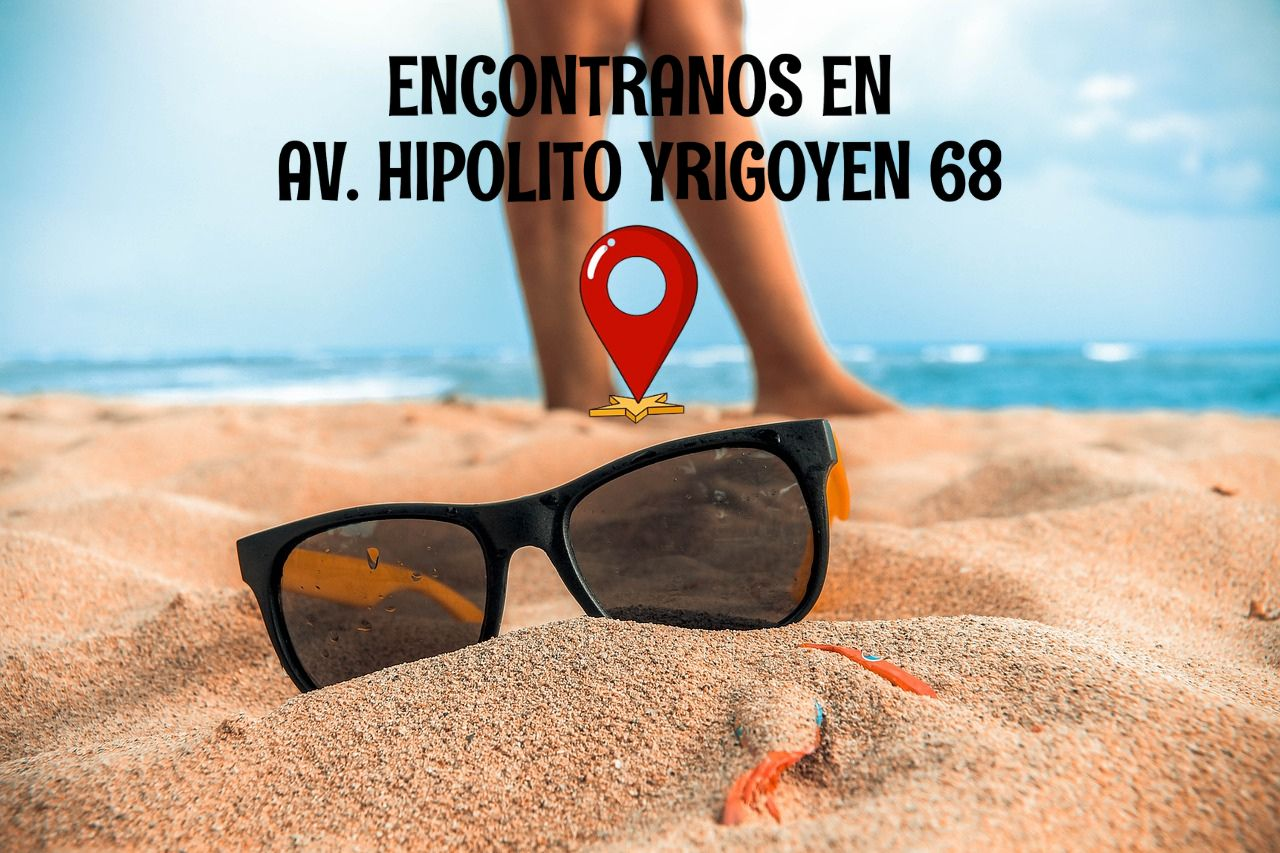
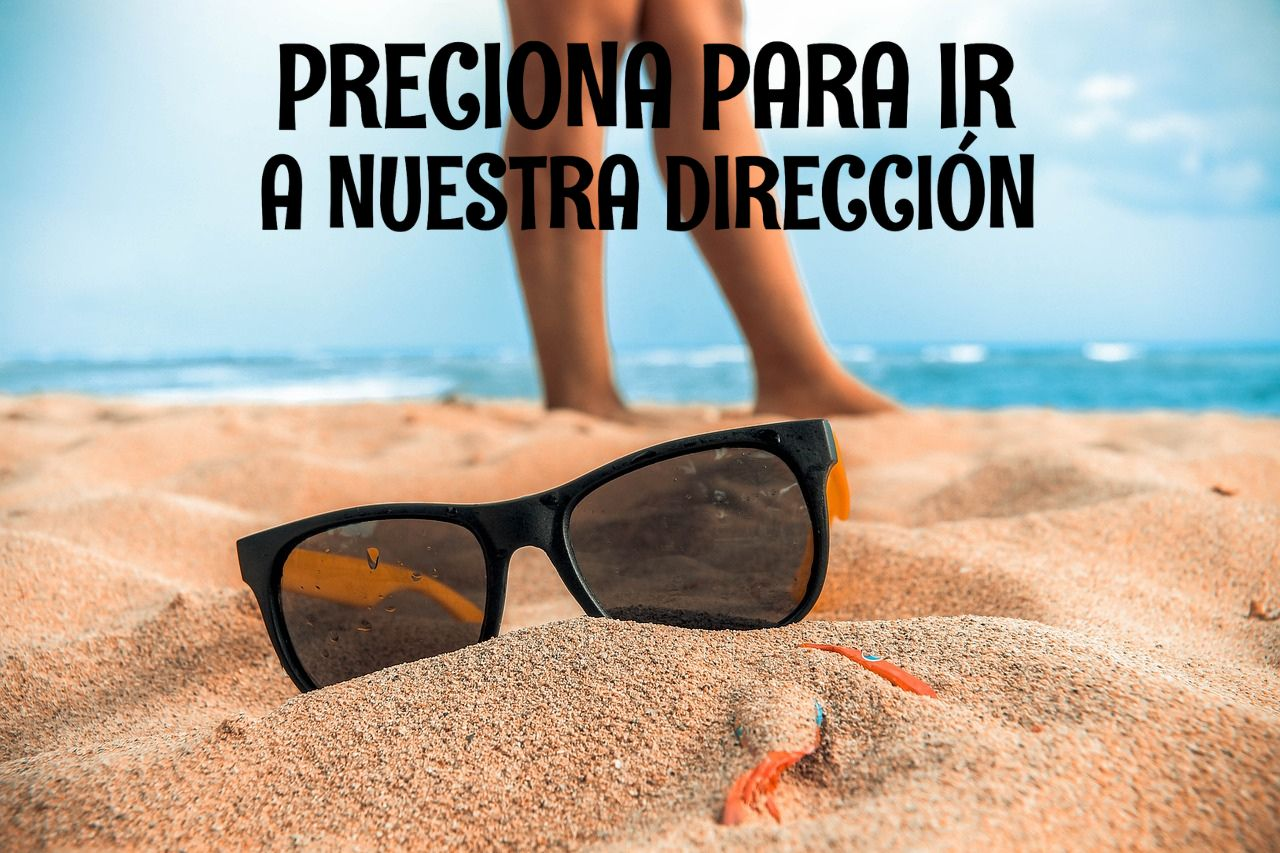
13-07-2023

Changed region(s): [[0.1875, 0.0305, 0.8125, 0.4877]]

diff --git a/src/inicio/inicio.js b/src/inicio/inicio.js
@@ -1,40 +1,55 @@
 import React from 'react';
-import { Carousel } from 'react-bootstrap';
-import lentes1 from '../imagenes/CARRUSEL/LENTES1.jpg'
-import lentes2 from '../imagenes/CARRUSEL/LENTES2.jpg'
-import lentes3 from '../imagenes/CARRUSEL/LENTES3.jpg'
-import lentes1cel from '../imagenes/CARRUSEL/LENTES1_CEL.jpg'
-import lentes2cel from '../imagenes/CARRUSEL/LENTES2_CEL.jpg'
-import lentes3cel from '../imagenes/CARRUSEL/LENTES3_CEL.jpg'
+import { Button, Carousel } from 'react-bootstrap';
+import lentes1 from '../imagenes/CARRUSEL/LENTES1.jpg';
+import lentes2 from '../imagenes/CARRUSEL/LENTES2.jpg';
+import lentes3 from '../imagenes/CARRUSEL/LENTES3.jpg';
+import lentes1cel from '../imagenes/CARRUSEL/LENTES1_CEL.jpg';
+import lentes2cel from '../imagenes/CARRUSEL/LENTES2_CEL.jpg';
+import lentes3cel from '../imagenes/CARRUSEL/LENTES3_CEL.jpg';
+import icono from '../imagenes/CARRUSEL/iconodireccion.png'
+import { Link } from 'react-router-dom';
 
 const Inicio = () => {
- 
   const carouselImages = [
-    { id: 1, desktopImage: lentes1, mobileImage: lentes1cel },
-    { id: 2, desktopImage: lentes2, mobileImage: lentes2cel },
-    { id: 3, desktopImage: lentes3, mobileImage: lentes3cel },
+    { id: 1, desktopImage: lentes1, mobileImage: lentes1cel, link: null },
+    { id: 2, desktopImage: lentes2, mobileImage: lentes2cel, link: 'https://goo.gl/maps/qiSVFbcZARytbSsQ8' },
+    { id: 3, desktopImage: lentes3, mobileImage: lentes3cel, link: null },
   ];
+  const handleClick = (link) => {
+    if (link) {
+      window.location.href = link;
+    }
+  };
 
   return (
     <Carousel>
       {carouselImages.map((image) => (
         <Carousel.Item key={image.id}>
           <picture>
-            <source media="(max-width: 768px)" srcSet={image.mobileImage} />
+            <source media="(max-width: 768px)" srcSet={image.mobileImage} style={{ maxWidth: '100%' }} />
             <source media="(min-width: 769px)" srcSet={image.desktopImage} />
-            <img
-              className="d-block w-100"
-              src={image.desktopImage}
-              alt="Descripción de la imagen"
-            />
+              <img
+                className="d-block w-100"
+                src={image.desktopImage}
+                alt="Descripción de la imagen"
+              />
+              {image.id === 2 && (
+                  <Carousel.Caption>
+                    <a>
+                      
+                        <Link to='https://goo.gl/maps/qiSVFbcZARytbSsQ8' >
+                        <img src={icono}></img>
+                        </Link>
+                      
+                    </a>
+                    
+                  </Carousel.Caption>
+                )}
           </picture>
         </Carousel.Item>
-        
       ))}
     </Carousel>
   );
-
-
-}
+};
 
 export default Inicio;

diff --git a/src/index.css b/src/index.css
@@ -49,7 +49,8 @@
     justify-content: flex-start;
     background-color: transparent;
     color: transparent;
-    padding: 2%;
+    padding: 0%;
+    width: 50%;
 }
 
 .logowhat {
@@ -64,7 +65,14 @@
 .imagenwhat {
     width: 30%;
 }
-
+/*Carousel*/
+.botoncarousel{
+    background-color: white;
+    color: black;
+}
+.linkcarousel{
+    color: #000;
+}
 /*CARTAS*/
 
 .cartas {
@@ -235,7 +243,7 @@ MARCOS
         width: 40%;
     }
     .boton-redes{
-        padding-right: 70%;
+        padding-right: 50%;
     }
 }
 
